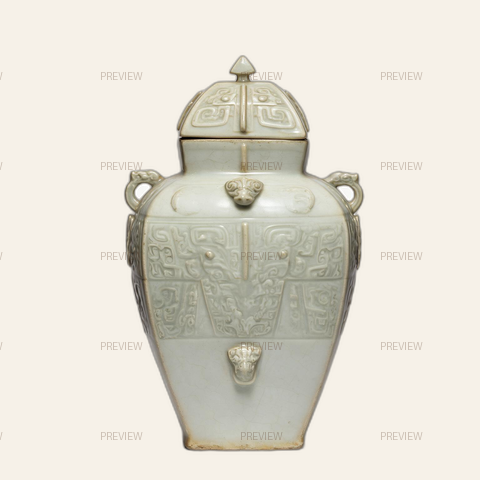
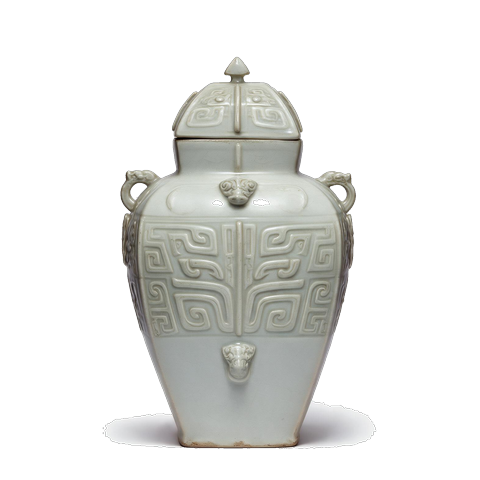
feat(art): ingest three fanghu sheets and refresh Jun moon-white preview
Replace the Jun moon-white fanghu with the improved moon-white Jun source after watermark removal and transparent cutout. Add Ge, Ru, and amber glazed square fanghu entries (25 sheets total) and document the ingest script for future art drops.

diff --git a/focus-tiger/src/core/artCollectionCatalog.js b/focus-tiger/src/core/artCollectionCatalog.js
@@ -116,8 +116,26 @@ export const ART_COLLECTION_SHEETS = Object.freeze([
     'hd-sp-08',
     'Jun moon-white dragon fanghu',
     '月白釉龙耳方壶',
-    'Moon-white Jun glaze, not Longquan celadon. A lidded square jar with dragon handles.',
-    '月白釉钧窑，不是龙泉青瓷。带盖方壶，龙形耳。'
+    'Moon-white Jun glaze on a Shang–Zhou style lidded square fanghu. Dragon handles; geometric relief on the belly.',
+    '月白釉钧窑。仿商周带盖方壶，龙形耳，腹上几何浮雕纹。'
+  ),
+  sheet(
+    'song-porcelain',
+    'ru-crackle-fanghu',
+    'hd-sp-09',
+    'Ru crackle fanghu',
+    '汝窑开片方壶',
+    'Ru-style crackle on a Shang–Zhou lidded square fanghu. Pale celadon glaze and geometric relief bands.',
+    '汝窑开片釉。仿商周带盖方壶，淡青釉，腹上几何浮雕纹。'
+  ),
+  sheet(
+    'song-porcelain',
+    'amber-glaze-fanghu',
+    'hd-sp-10',
+    'Amber glaze fanghu',
+    '黄釉方壶',
+    'Amber glaze on a Shang–Zhou lidded square fanghu. Dragon handles and carved geometric panels.',
+    '黄釉。仿商周带盖方壶，龙形耳，腹上几何浮雕纹。'
   ),
   sheet(
     'song-ge-ware',
@@ -172,6 +190,15 @@ export const ART_COLLECTION_SHEETS = Object.freeze([
     '哥窑兽面纹觚',
     'A gu in crackled glaze, with a square taotie knop on the stem.',
     '开片釉觚，腰间一方兽面节。'
+  ),
+  sheet(
+    'song-ge-ware',
+    'ge-crackle-fanghu',
+    'hd-sg-07',
+    'Ge crackle fanghu',
+    '哥窑开片方壶',
+    'Ge crackle on a Shang–Zhou lidded square fanghu. Dragon handles and geometric relief on the belly.',
+    '哥窑开片釉。仿商周带盖方壶，龙形耳，腹上几何浮雕纹。'
   ),
   sheet(
     'tixi-lacquer',

diff --git a/focus-tiger/src/core/artCollectionPurchase.test.js b/focus-tiger/src/core/artCollectionPurchase.test.js
@@ -24,15 +24,15 @@ const publicRoot = join(here, '../../public/ui/art-collection');
 const coinsPanel = readFileSync(join(here, '../ui/FocusCoinsPanelUI.js'), 'utf8');
 
 describe('art collection purchase', () => {
-  it('lists 22 sheets and omits the two withdrawn files', () => {
-    assert.equal(ART_COLLECTION_SHEETS.length, 22);
+  it('lists 25 sheets and omits the two withdrawn files', () => {
+    assert.equal(ART_COLLECTION_SHEETS.length, 25);
     assert.equal(
       ART_COLLECTION_SHEETS.filter((row) => row.setId === 'song-porcelain').length,
-      8
+      10
     );
     assert.equal(
       ART_COLLECTION_SHEETS.filter((row) => row.setId === 'song-ge-ware').length,
-      6
+      7
     );
     assert.equal(
       ART_COLLECTION_SHEETS.filter((row) => row.setId === 'tixi-lacquer').length,
@@ -121,7 +121,7 @@ describe('art collection purchase', () => {
       }
     };
     walk(publicRoot);
-    assert.ok(pngs.length >= 22);
+    assert.ok(pngs.length >= 25);
     for (const name of pngs) {
       assert.match(name, /^preview-/);
     }

diff --git a/focus-tiger/cloud/src/lib/artCollectionCatalog.ts b/focus-tiger/cloud/src/lib/artCollectionCatalog.ts
@@ -30,12 +30,15 @@ export const ART_COLLECTION_WORKS: readonly ArtCollectionWork[] = Object.freeze(
 	work("celadon-taotie-ding", "Celadon taotie ding"),
 	work("celadon-beast-foot-pan", "Celadon beast-foot pan"),
 	work("jun-moon-white-dragon-fanghu", "Jun moon-white dragon fanghu"),
+	work("ru-crackle-fanghu", "Ru crackle fanghu"),
+	work("amber-glaze-fanghu", "Amber glaze fanghu"),
 	work("ge-taotie-li", "Ge taotie li"),
 	work("ge-dragon-zun", "Ge dragon zun"),
 	work("ge-hunting-stem-bowl", "Ge hunting-scene dou"),
 	work("ge-beast-ring-hu", "Ge beast-ring hu"),
 	work("ge-upright-ear-ding", "Ge upright-ear ding"),
 	work("ge-taotie-gu", "Ge taotie gu"),
+	work("ge-crackle-fanghu", "Ge crackle fanghu"),
 	work("tixi-dragon-yi", "Tixi dragon yi"),
 	work("tixi-cloud-ge", "Tixi cloud-scroll ge"),
 	work("tixi-taotie-gu", "Tixi taotie gu"),

diff --git a/focus-tiger/cloud/src/lib/artCollectionCatalog.test.ts b/focus-tiger/cloud/src/lib/artCollectionCatalog.test.ts
@@ -14,10 +14,10 @@ const clientCatalog = readFileSync(
 	"utf8",
 );
 
-test("charges the 22 client sheets at $1.99 and refuses the old five", () => {
-	assert.equal(ART_COLLECTION_WORKS.length, 22);
+test("charges the 25 client sheets at $1.99 and refuses the old five", () => {
+	assert.equal(ART_COLLECTION_WORKS.length, 25);
 	const ids = ART_COLLECTION_WORKS.map((row) => row.id);
-	assert.equal(new Set(ids).size, 22);
+	assert.equal(new Set(ids).size, 25);
 	for (const row of ART_COLLECTION_WORKS) {
 		assert.equal(row.unitAmount, ART_COLLECTION_UNIT_AMOUNT);
 		assert.equal(ART_COLLECTION_UNIT_AMOUNT, 199);

diff --git a/focus-tiger/scripts/process-art-collection-ingest.py b/focus-tiger/scripts/process-art-collection-ingest.py
@@ -1,0 +1,121 @@
+#!/usr/bin/env python3
+"""Prepare Art Collection PNGs: strip AI watermark, cut out subject, transparent background."""
+
+from __future__ import annotations
+
+import argparse
+from pathlib import Path
+
+import numpy as np
+from PIL import Image, ImageFilter
+
+
+PREVIEW_SIZE = 480
+BOTTOM_MARGIN = 28
+
+
+def _corner_bg(rgb: np.ndarray) -> np.ndarray:
+    h, w = rgb.shape[:2]
+    samples = np.array(
+        [
+            rgb[0, 0],
+            rgb[0, w - 1],
+            rgb[h - 1, 0],
+            rgb[h - 1, w - 1],
+            rgb[0, w // 2],
+            rgb[h - 1, w // 2],
+        ],
+        dtype=np.float32,
+    )
+    return np.median(samples, axis=0)
+
+
+def _subject_mask(rgb: np.ndarray, bg: np.ndarray) -> np.ndarray:
+    h, w = rgb.shape[:2]
+    diff = np.sqrt(np.sum((rgb.astype(np.float32) - bg) ** 2, axis=2))
+    mask = diff > 20
+
+    # Top-left AI watermark band
+    watermark = np.zeros((h, w), dtype=bool)
+    watermark[: int(h * 0.09), : int(w * 0.2)] = True
+    mask &= ~watermark
+
+    # Drop isolated specks
+    from scipy import ndimage
+
+    mask = ndimage.binary_opening(mask, iterations=1)
+    mask = ndimage.binary_closing(mask, iterations=2)
+    return mask
+
+
+def ingest_master(src: Path) -> Image.Image:
+    im = Image.open(src).convert("RGBA")
+    arr = np.array(im)
+    rgb = arr[:, :, :3]
+    bg = _corner_bg(rgb)
+    mask = _subject_mask(rgb, bg)
+
+    alpha = (mask.astype(np.uint8) * 255)
+    alpha_img = Image.fromarray(alpha, mode="L").filter(ImageFilter.GaussianBlur(0.6))
+    out = Image.new("RGBA", im.size, (0, 0, 0, 0))
+    out.paste(im, mask=alpha_img)
+    return _crop_transparent(out)
+
+
+def _crop_transparent(im: Image.Image, pad: int = 8) -> Image.Image:
+    arr = np.array(im)
+    alpha = arr[:, :, 3] > 16
+    if not alpha.any():
+        return im
+    rows = np.any(alpha, axis=1)
+    cols = np.any(alpha, axis=0)
+    r0, r1 = np.where(rows)[0][[0, -1]]
+    c0, c1 = np.where(cols)[0][[0, -1]]
+    r0 = max(0, r0 - pad)
+    c0 = max(0, c0 - pad)
+    r1 = min(arr.shape[0] - 1, r1 + pad)
+    c1 = min(arr.shape[1] - 1, c1 + pad)
+    return im.crop((c0, r0, c1 + 1, r1 + 1))
+
+
+def to_preview(master: Image.Image, size: int = PREVIEW_SIZE) -> Image.Image:
+    cw, ch = master.size
+    max_h = int(size * 0.83)
+    max_w = int(size * 0.88)
+    scale = min(max_w / cw, max_h / ch)
+    nw, nh = max(1, int(cw * scale)), max(1, int(ch * scale))
+    resized = master.resize((nw, nh), Image.Resampling.LANCZOS)
+    canvas = Image.new("RGBA", (size, size), (0, 0, 0, 0))
+    x = (size - nw) // 2
+    y = size - nh - BOTTOM_MARGIN
+    canvas.paste(resized, (x, y), resized)
+    return canvas
+
+
+def process_file(src: Path, preview_out: Path, master_out: Path | None = None) -> None:
+    master = ingest_master(src)
+    preview = to_preview(master)
+    preview_out.parent.mkdir(parents=True, exist_ok=True)
+    preview.save(preview_out, "PNG", optimize=True)
+    if master_out is not None:
+        master_out.parent.mkdir(parents=True, exist_ok=True)
+        master.save(master_out, "PNG", optimize=True)
+    transparent = int(np.sum(np.array(preview)[:, :, 3] > 16))
+    print(f"{preview_out.name}: {preview.size} transparent_px={transparent}")
+
+
+def main() -> None:
+    parser = argparse.ArgumentParser()
+    parser.add_argument("src")
+    parser.add_argument("preview_out")
+    parser.add_argument("--master-out")
+    args = parser.parse_args()
+    process_file(
+        Path(args.src),
+        Path(args.preview_out),
+        Path(args.master_out) if args.master_out else None,
+    )
+
+
+if __name__ == "__main__":
+    main()

diff --git a/focus-tiger/docs/art-collection-catalog.md b/focus-tiger/docs/art-collection-catalog.md
@@ -3,12 +3,12 @@
 > **Status:** purchase page started (2026-10-03). Payment is not open.  
 > Boundary: `YIN_ART_COLLECTION.md`.  
 > Files: `public/ui/art-collection/` holds watermarked low-resolution previews named `preview-*.png`. The transparent masters are already in the public git history and are treated as exposed. New high-resolution files use `hd-*` names and are not committed.  
-> Suggested price for every sheet: **$1.99** (inside the locked $0.99–$2.99 band). Not a live checkout price. Twenty-two sheets bought one by one are about $44. A set bundle price is later.  
+> Suggested price for every sheet: **$1.99** (inside the locked $0.99–$2.99 band). Not a live checkout price. Twenty-five sheets bought one by one are about $50. A set bundle price is later.  
 > These are illustrations inspired by vessel types, made with image-generation assistance. They are not museum objects and not edition numbers. Copy must say so.
 
 ## Song Porcelain · 宋瓷
 
-`song-porcelain/` · eight sheets. The garlic-mouth bottle was withdrawn (a generator mark stayed on the neck).
+`song-porcelain/` · ten sheets. The garlic-mouth bottle was withdrawn (a generator mark stayed on the neck).
 
 | File | Name | Story |
 |---|---|---|
@@ -19,11 +19,13 @@
 | `preview-celadon-taotie-gui.png` | Celadon taotie gui · 青瓷兽面纹簋 | A gui: round bowl, flared rim, two handles, and a taotie band. |
 | `preview-celadon-taotie-ding.png` | Celadon taotie ding · 青瓷兽面纹鼎 | A round ding on three legs, with a lid and upright flanges. |
 | `preview-celadon-beast-foot-pan.png` | Celadon beast-foot pan · 青瓷兽足盘 | A wide pan on a ring foot. Small beasts stand under the rim. |
-| `preview-jun-moon-white-dragon-fanghu.png` | Jun moon-white dragon fanghu · 月白釉龙耳方壶 | Moon-white Jun glaze, not Longquan celadon. A lidded square jar with dragon handles. It stays in this Song set because it was drawn with them. |
+| `preview-jun-moon-white-dragon-fanghu.png` | Jun moon-white dragon fanghu · 月白釉龙耳方壶 | Moon-white Jun glaze on a Shang–Zhou lidded square fanghu. Dragon handles; geometric relief on the belly. |
+| `preview-ru-crackle-fanghu.png` | Ru crackle fanghu · 汝窑开片方壶 | Ru-style crackle on a Shang–Zhou lidded square fanghu. Pale celadon glaze and geometric relief bands. |
+| `preview-amber-glaze-fanghu.png` | Amber glaze fanghu · 黄釉方壶 | Amber glaze on a Shang–Zhou lidded square fanghu. Dragon handles and carved geometric panels. |
 
 ## Song Ge Ware · 宋代哥窑
 
-`song-ge-ware/` · six sheets. Gray-white glaze, crackle. Gold lines appear on some sheets and not others; the story does not pretend every piece has gold thread. The dragon-handle he was withdrawn (the lid had a hole from the cutout).
+`song-ge-ware/` · seven sheets. Gray-white glaze, crackle. Gold lines appear on some sheets and not others; the story does not pretend every piece has gold thread. The dragon-handle he was withdrawn (the lid had a hole from the cutout).
 
 | File | Name | Story |
 |---|---|---|
@@ -33,6 +35,7 @@
 | `preview-ge-beast-ring-hu.png` | Ge beast-ring hu · 哥窑兽首衔环壶 | A globular hu. Beast heads at the shoulder hold rings. |
 | `preview-ge-upright-ear-ding.png` | Ge upright-ear ding · 哥窑立耳兽面鼎 | A ding with two upright handles and three legs shaped as animal masks. |
 | `preview-ge-taotie-gu.png` | Ge taotie gu · 哥窑兽面纹觚 | A gu in crackled glaze, with a square taotie knop on the stem. |
+| `preview-ge-crackle-fanghu.png` | Ge crackle fanghu · 哥窑开片方壶 | Ge crackle on a Shang–Zhou lidded square fanghu. Dragon handles and geometric relief on the belly. |
 
 ## Tixi Lacquer · 剔犀漆器
 

diff --git a/focus-tiger/docs/kb-live-gap-audit.md b/focus-tiger/docs/kb-live-gap-audit.md
@@ -38,7 +38,7 @@ This is an **A 类** audit artifact. Gaps listed here are **expected** until Ste
 
 > **机器块 · 勿手改**。真源：`scripts/audit-kb-live-gap.js` + `kbLiveEntryRegistry.js` + `productKnowledgeCatalog.json`。刷新：`npm run audit:kb-live-gap -- --write`。
 
-**Snapshot**: 2026-10-03 · 28 live rows · 38 approved catalog ids
+**Snapshot**: 2026-10-07 · 28 live rows · 38 approved catalog ids
 
 ### Summary counts
 
